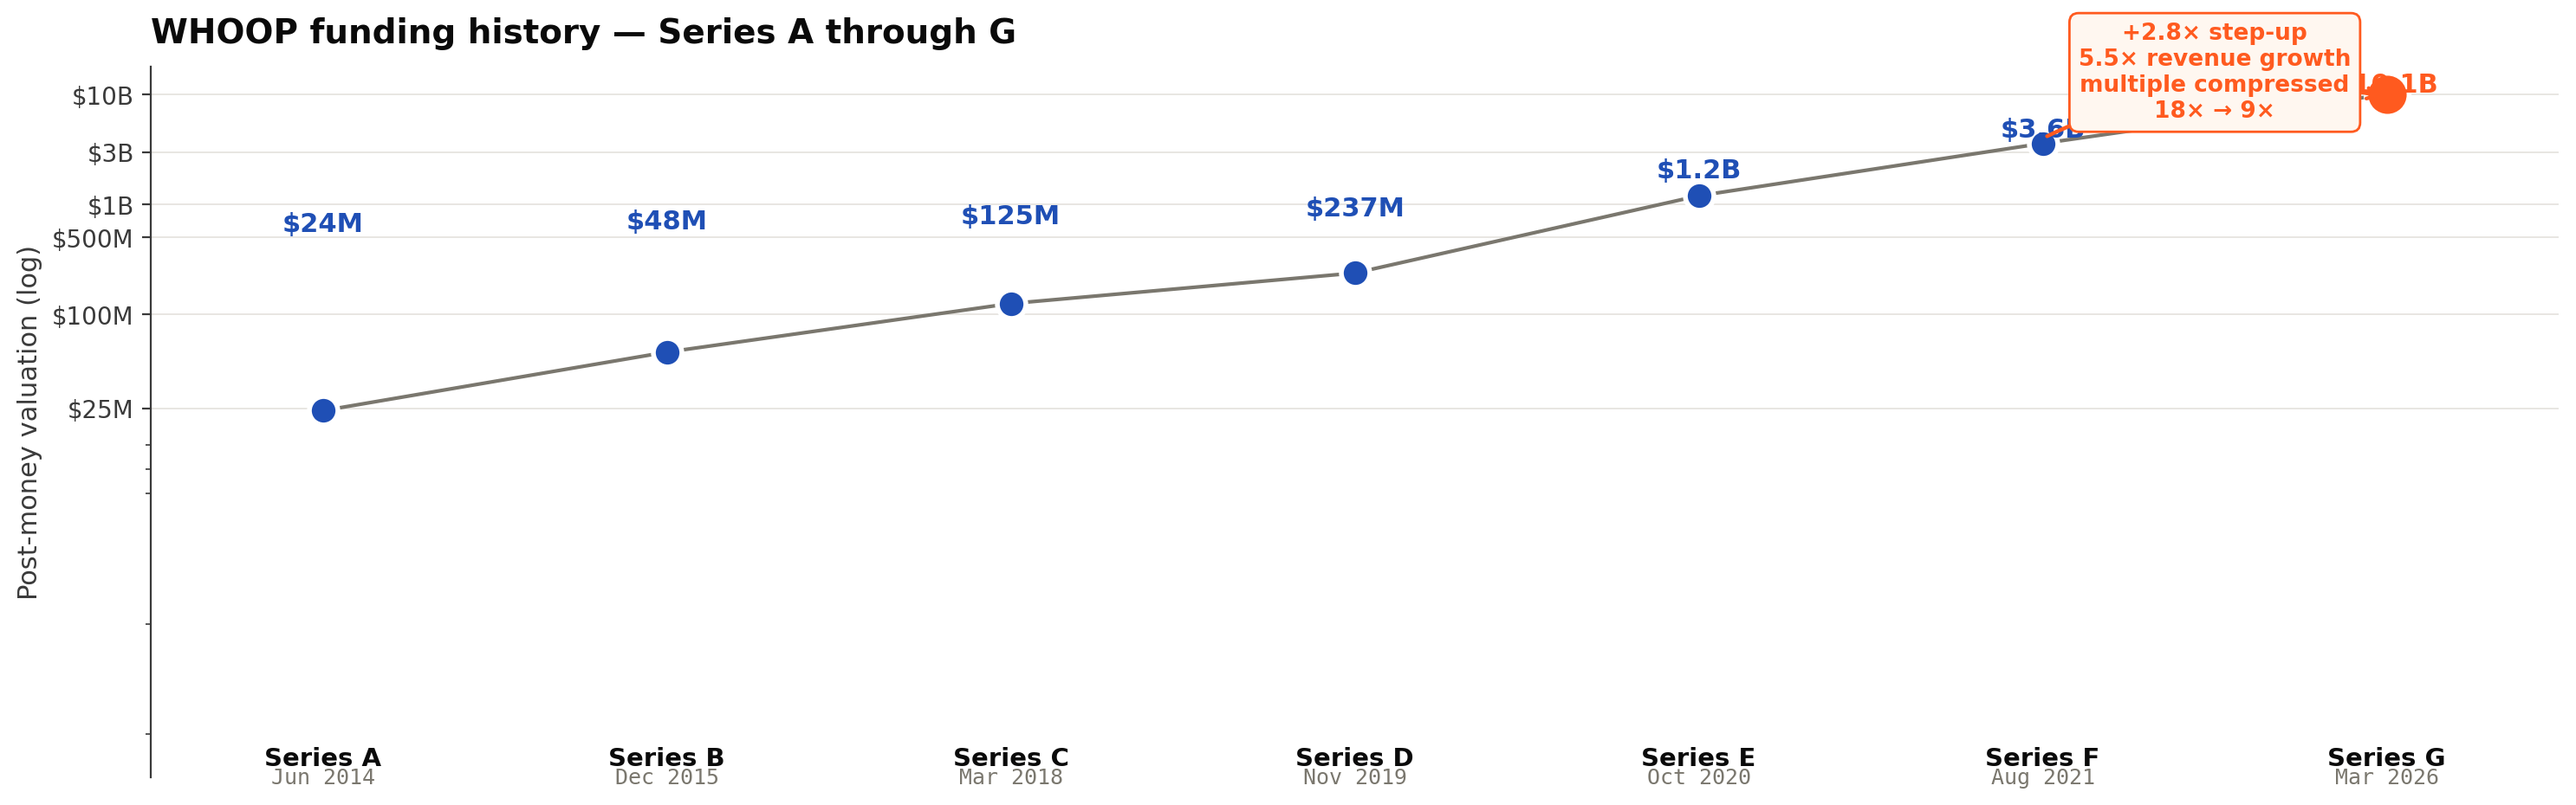
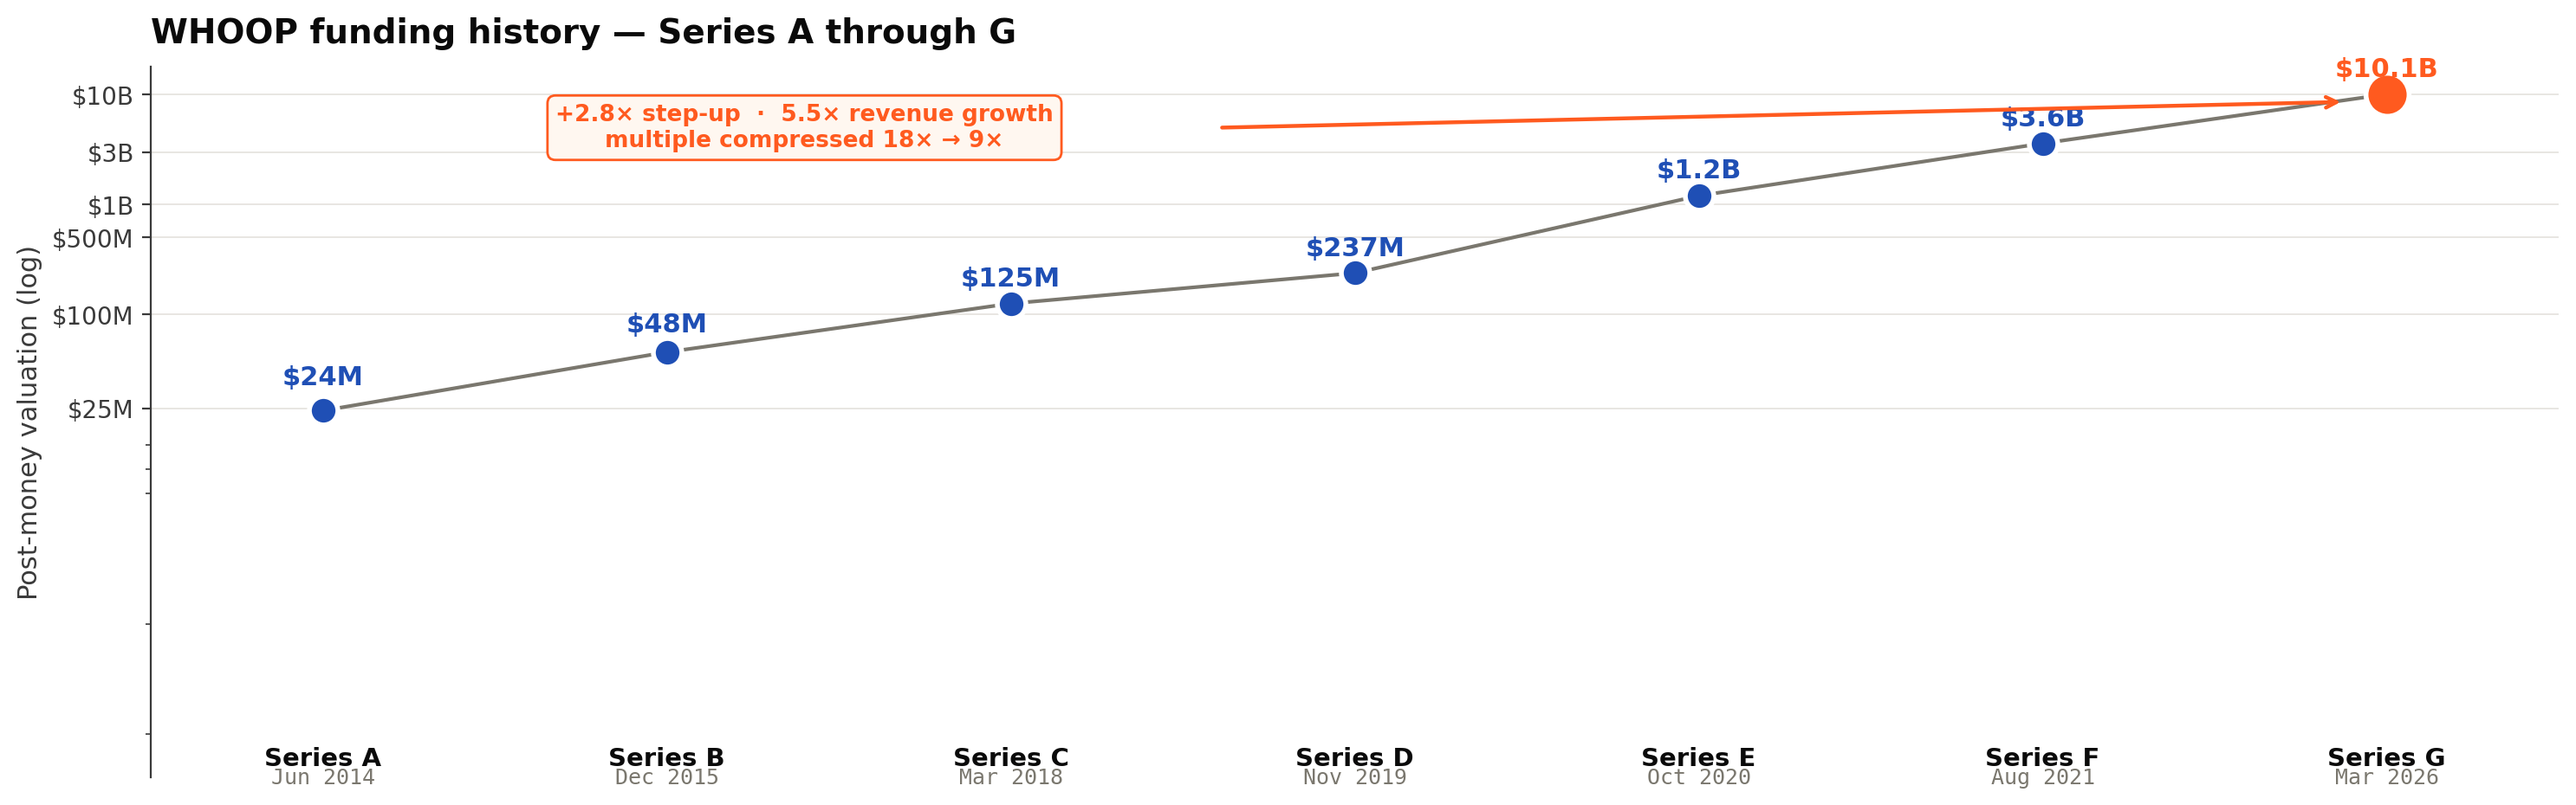
Clean up funding_timeline visual
Annotation box was overrunning the Series G $10.1B value label and the
Series F $3.6B label. Moved the box into upper-left whitespace, replaced
the curved arrow with a straight one (the arc was clipping above the
y-limit), and switched value labels to a multiplicative offset so they
sit at a uniform visual distance across the log axis.

https://claude.ai/code/session_011NjNecq8udaBKafA5Jqxzj

diff --git a/scripts/build_visuals.py b/scripts/build_visuals.py
@@ -116,13 +116,13 @@ def funding_timeline():
         ax.text(i, -1.3, lbl, ha="center", va="top", fontsize=10.5, color=DARK, fontweight="bold")
         ax.text(i, -2.0, dt, ha="center", va="top", fontsize=9, color=GRAY_FT, family="monospace")
         txt = f"${v:.1f}B" if v >= 1 else f"${v*1000:.0f}M"
-        ax.text(i, v + 0.55, txt, ha="center", fontsize=11, color=col, fontweight="bold")
-    ax.annotate("", xy=(6, 9.4), xytext=(5, 4.0),
+        ax.text(i, v * 1.45, txt, ha="center", fontsize=11, color=col, fontweight="bold")
+    ax.annotate("", xy=(5.88, 8.6), xytext=(2.6, 5.0),
                 arrowprops=dict(arrowstyle="->", color=ORANGE, lw=1.6,
-                                connectionstyle="arc3,rad=-0.18"))
-    ax.text(5.5, 6.2, "+2.8× step-up\n5.5× revenue growth\nmultiple compressed\n18× → 9×",
-            ha="center", fontsize=9.5, color=ORANGE, fontweight="bold",
-            bbox=dict(facecolor="#FFF7F0", edgecolor=ORANGE, boxstyle="round,pad=0.4", linewidth=1))
+                                connectionstyle="arc3,rad=0.0"))
+    ax.text(1.4, 5.0, "+2.8× step-up  ·  5.5× revenue growth\nmultiple compressed 18× → 9×",
+            ha="center", va="center", fontsize=9.5, color=ORANGE, fontweight="bold",
+            bbox=dict(facecolor="#FFF7F0", edgecolor=ORANGE, boxstyle="round,pad=0.35", linewidth=1))
     ax.set_yscale("symlog", linthresh=0.05)
     ax.set_ylim(-2.5, 18)
     ax.set_xlim(-0.5, len(rounds) - 0.5)
